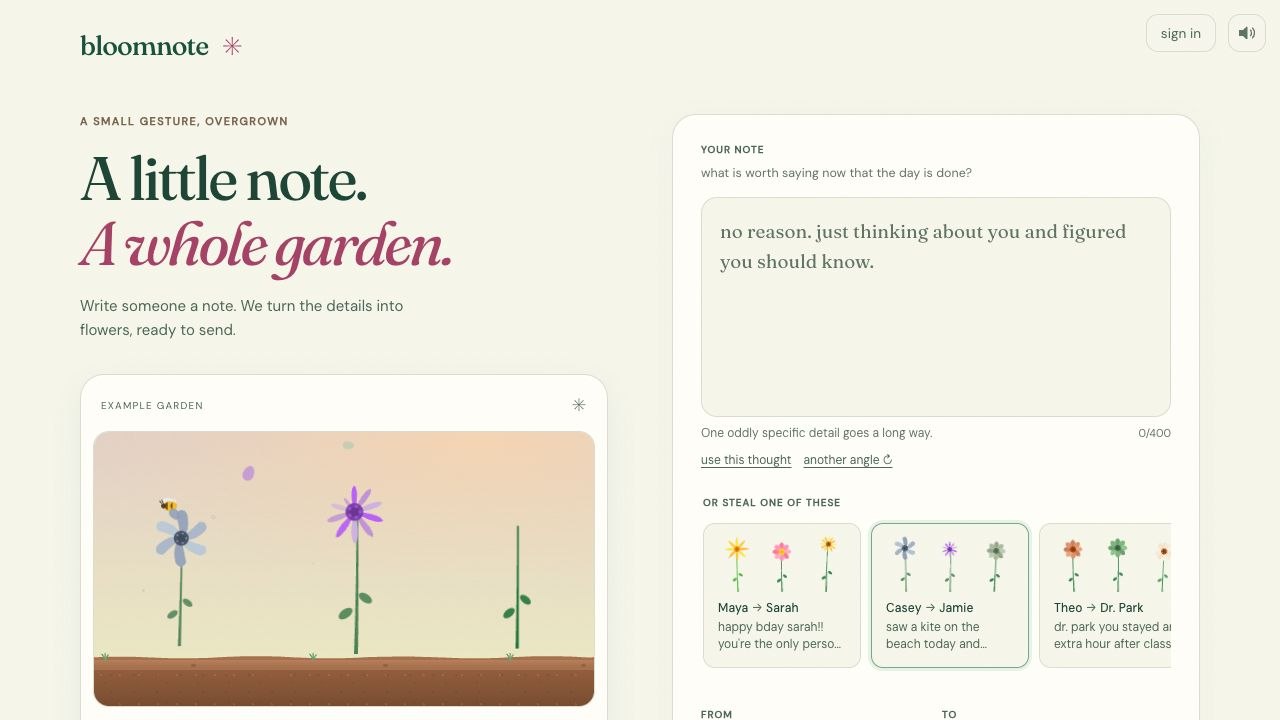
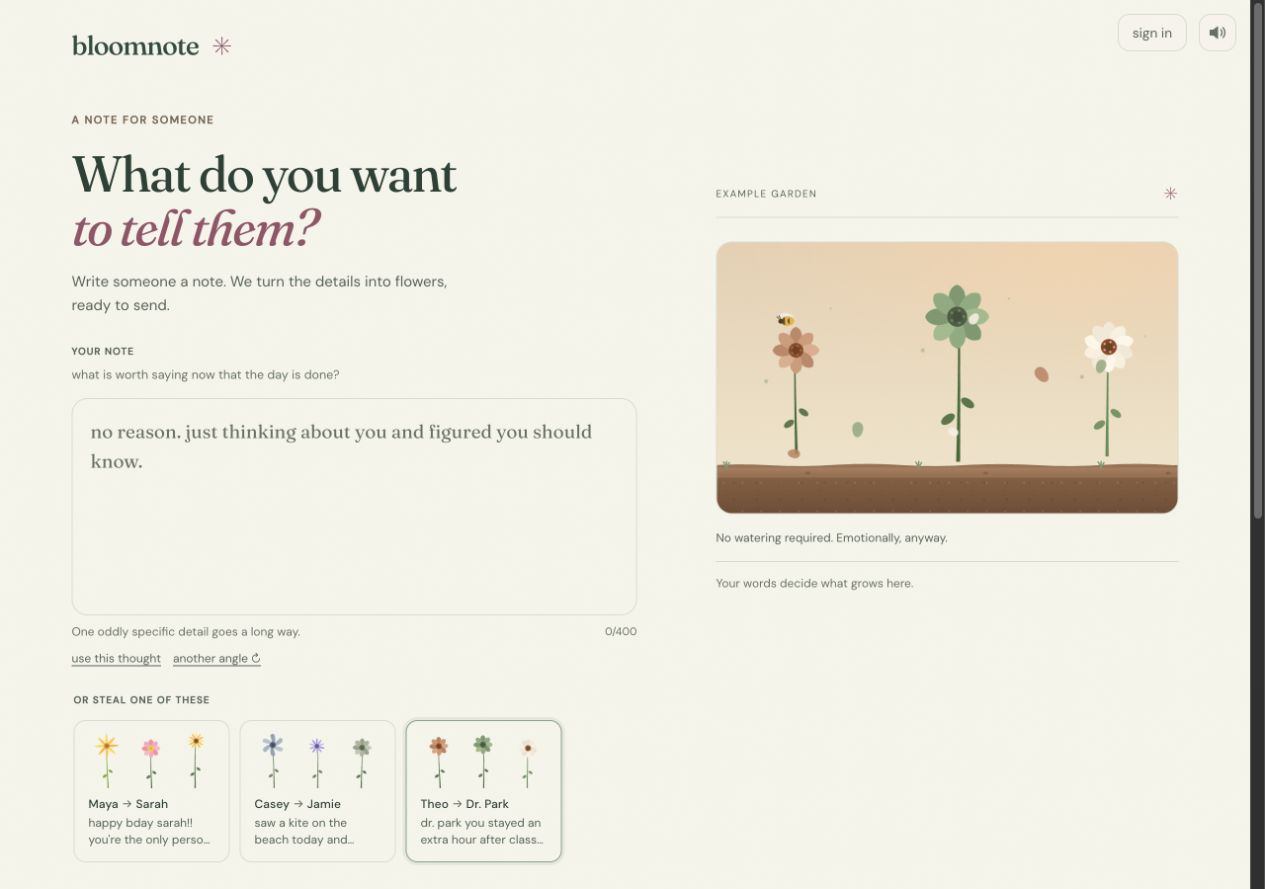
feat: surface career outcomes and refresh project previews

diff --git a/src/ui/sections/Experience.tsx b/src/ui/sections/Experience.tsx
@@ -1,6 +1,40 @@
-import { WORK_ITEMS } from '../../data/workItems';
+import { workId, WORK_ITEMS } from '../../data/workItems';
+import './experience.css';
 import type { WorkDetail } from '../../types';
 import { EYEBROW, H2, P_LI, Section, UL_BASE } from './shared';
+
+const OUTCOMES: Record<string, { figure: string; label: string; title: string; detail: string }> = {
+  'monolith-django-rest-react-rewrite': {
+    figure: '6 months',
+    label: 'two engineers',
+    title: 'Replaced a live PHP backend',
+    detail: 'Django REST + React, migrated incrementally behind feature flags.',
+  },
+  'agentic-ai-playwright-framework': {
+    figure: 'First',
+    label: 'automated coverage',
+    title: 'Tests that keep up with a rewrite',
+    detail: 'A Playwright pipeline that plans, generates, and repairs tests.',
+  },
+  'ad-slot-details-120-1-api-call': {
+    figure: '60s → 2s',
+    label: 'page load',
+    title: '120 API calls became one',
+    detail: 'One batched endpoint for the joined data ad ops needs.',
+  },
+  'sponsorships-audience-extension-blackout-periods': {
+    figure: '3 products',
+    label: 'end to end',
+    title: 'Publisher controls at scale',
+    detail: 'Data models, APIs, and interfaces; Sponsorships includes The Washington Post.',
+  },
+  'creative-mapping-v2': {
+    figure: 'Schema → UI',
+    label: 'full ownership',
+    title: 'Creative Mapping v2',
+    detail: 'MySQL, REST, and Angular targeting controls for publisher ops.',
+  },
+};
 
 const ROLES = [
   { title: 'Software Engineer', company: 'Zeta Global', period: '2024 to now' },
@@ -16,8 +50,8 @@ export function ExperienceSection({ onOpen }: Props) {
   const highlights = WORK_ITEMS.filter((i) => !i.mark);
 
   return (
-    <Section id="sec-experience" side="left">
-      <div className="panel pointer-events-auto w-full max-w-[540px]">
+    <Section id="sec-experience" side="left" desktopVertical="top" mobileVertical="top">
+      <div className="panel pointer-events-auto w-full max-w-[650px]">
         <span className={EYEBROW}>01 / EXPERIENCE</span>
         <h2 className={H2}>Where I&apos;ve worked</h2>
         <ul className={`${UL_BASE} ${P_LI}`}>
@@ -38,7 +72,7 @@ export function ExperienceSection({ onOpen }: Props) {
         </ul>
 
         <p className="mt-5 mb-0.5 font-[var(--font-mono)] text-[0.62rem] tracking-[0.24em] uppercase text-[var(--color-muted)]">
-          Things I&apos;ve shipped
+          Selected outcomes
         </p>
         <div>
           {highlights.map((item) => (
@@ -51,20 +85,26 @@ export function ExperienceSection({ onOpen }: Props) {
 }
 
 function HighlightRow({ item, onOpen }: { item: WorkDetail; onOpen: (el: HTMLElement) => void }) {
+  const outcome = OUTCOMES[workId(item)];
   return (
-    <button
-      type="button"
-      onClick={(e) => onOpen(e.currentTarget)}
-      className="
-        group w-full text-left block py-2.5 md:py-[0.4rem] cursor-pointer
-        border-y border-transparent rounded-md -mx-2 px-2
-        transition-colors duration-200
-        hover:border-[var(--color-line)] hover:bg-white/[0.02]
-      "
-    >
-      <p className="text-[rgba(244,240,255,0.8)] text-[0.85rem] leading-[1.45] m-0 line-clamp-1 transition-colors group-hover:text-[var(--color-fg)]">
-        {item.summary}
-      </p>
+    <button type="button" onClick={(e) => onOpen(e.currentTarget)} className="experience-outcome">
+      {outcome ? (
+        <>
+          <span className="experience-figure">
+            <strong>{outcome.figure}</strong>
+            <span>{outcome.label}</span>
+          </span>
+          <span className="experience-story">
+            <strong>{outcome.title}</strong>
+            <span>{outcome.detail}</span>
+          </span>
+        </>
+      ) : (
+        <span>{item.summary}</span>
+      )}
+      <span className="experience-arrow" aria-hidden="true">
+        ↗
+      </span>
     </button>
   );
 }

diff --git a/src/ui/sections/experience.css b/src/ui/sections/experience.css
@@ -1,0 +1,92 @@
+.experience-outcome {
+  display: grid;
+  grid-template-columns: 140px minmax(0, 1fr) 18px;
+  gap: 18px;
+  width: 100%;
+  text-align: left;
+  border-top: 1px solid var(--color-line);
+  padding: 16px 0;
+  cursor: pointer;
+  transition: background 160ms;
+}
+.experience-outcome:last-child {
+  border-bottom: 1px solid var(--color-line);
+}
+.experience-outcome:hover {
+  background: rgba(255, 255, 255, 0.025);
+}
+.experience-figure,
+.experience-story {
+  display: flex;
+  flex-direction: column;
+  gap: 5px;
+}
+.experience-figure strong {
+  font-size: 21px;
+  line-height: 1.2;
+  font-weight: 500;
+  letter-spacing: -0.04em;
+}
+.experience-figure span {
+  font: 9px/1.4 var(--font-mono);
+  color: var(--color-muted);
+  text-transform: uppercase;
+  letter-spacing: 0.08em;
+}
+.experience-story strong {
+  font-size: 14px;
+  font-weight: 500;
+  line-height: 1.4;
+}
+.experience-story span {
+  font-size: 12px;
+  color: var(--color-muted);
+  line-height: 1.5;
+}
+.experience-arrow {
+  color: var(--color-muted);
+}
+#sec-experience .panel {
+  text-align: left;
+}
+@media (max-width: 767px) {
+  .experience-outcome {
+    grid-template-columns: 100px minmax(0, 1fr) 12px;
+    gap: 12px;
+    padding: 18px 0;
+  }
+  .experience-figure strong {
+    font-size: 18px;
+  }
+  .experience-story strong {
+    font-size: 13px;
+  }
+  #sec-experience li {
+    flex-wrap: wrap;
+    row-gap: 2px;
+  }
+}
+@media (prefers-reduced-motion: reduce) {
+  .experience-outcome {
+    transition: none;
+  }
+}
+#sec-experience {
+  background: linear-gradient(
+    90deg,
+    rgba(12, 12, 20, 0.94),
+    rgba(12, 12, 20, 0.75) 58%,
+    rgba(12, 12, 20, 0.22)
+  );
+}
+@media (min-width: 768px) {
+  #sec-experience {
+    padding-top: 110px;
+    padding-bottom: 160px;
+  }
+}
+@media (max-width: 767px) {
+  #sec-experience {
+    background: rgba(12, 12, 20, 0.91);
+  }
+}

diff --git a/src/data/projectPreviews.ts b/src/data/projectPreviews.ts
@@ -15,7 +15,7 @@ export const PREVIEWS: Record<string, { image: string; description: string; capt
     image: '/projects/owewell.png',
     description:
       'Shared expenses, itemized splits, and the smallest set of payments needed to settle up.',
-    caption: 'Public bill-splitting interface / no account required.',
+    caption: 'Interactive receipt / a labeled $48 example, split three ways.',
   },
   auth: {
     image: '/projects/platform.png',
@@ -37,7 +37,7 @@ export const PREVIEWS: Record<string, { image: string; description: string; capt
   bloomnote: {
     image: '/projects/bloomnote.png',
     description: 'Write someone a note and turn its details into a garden they can open.',
-    caption: 'Public composer / an example garden beside your note.',
+    caption: 'Writing desk / your note first, with a labeled example garden alongside.',
   },
   mrrp: {
     image: '/projects/mrrp.png',

diff --git a/src/ui/project-gallery.css b/src/ui/project-gallery.css
@@ -134,7 +134,7 @@
     transform-origin: right center;
   }
   .project-gallery [data-project='bloomnote'] img {
-    object-position: left bottom;
+    object-position: right center;
     transform-origin: left bottom;
   }
   .project-gallery [data-project='mrrp'] img {
